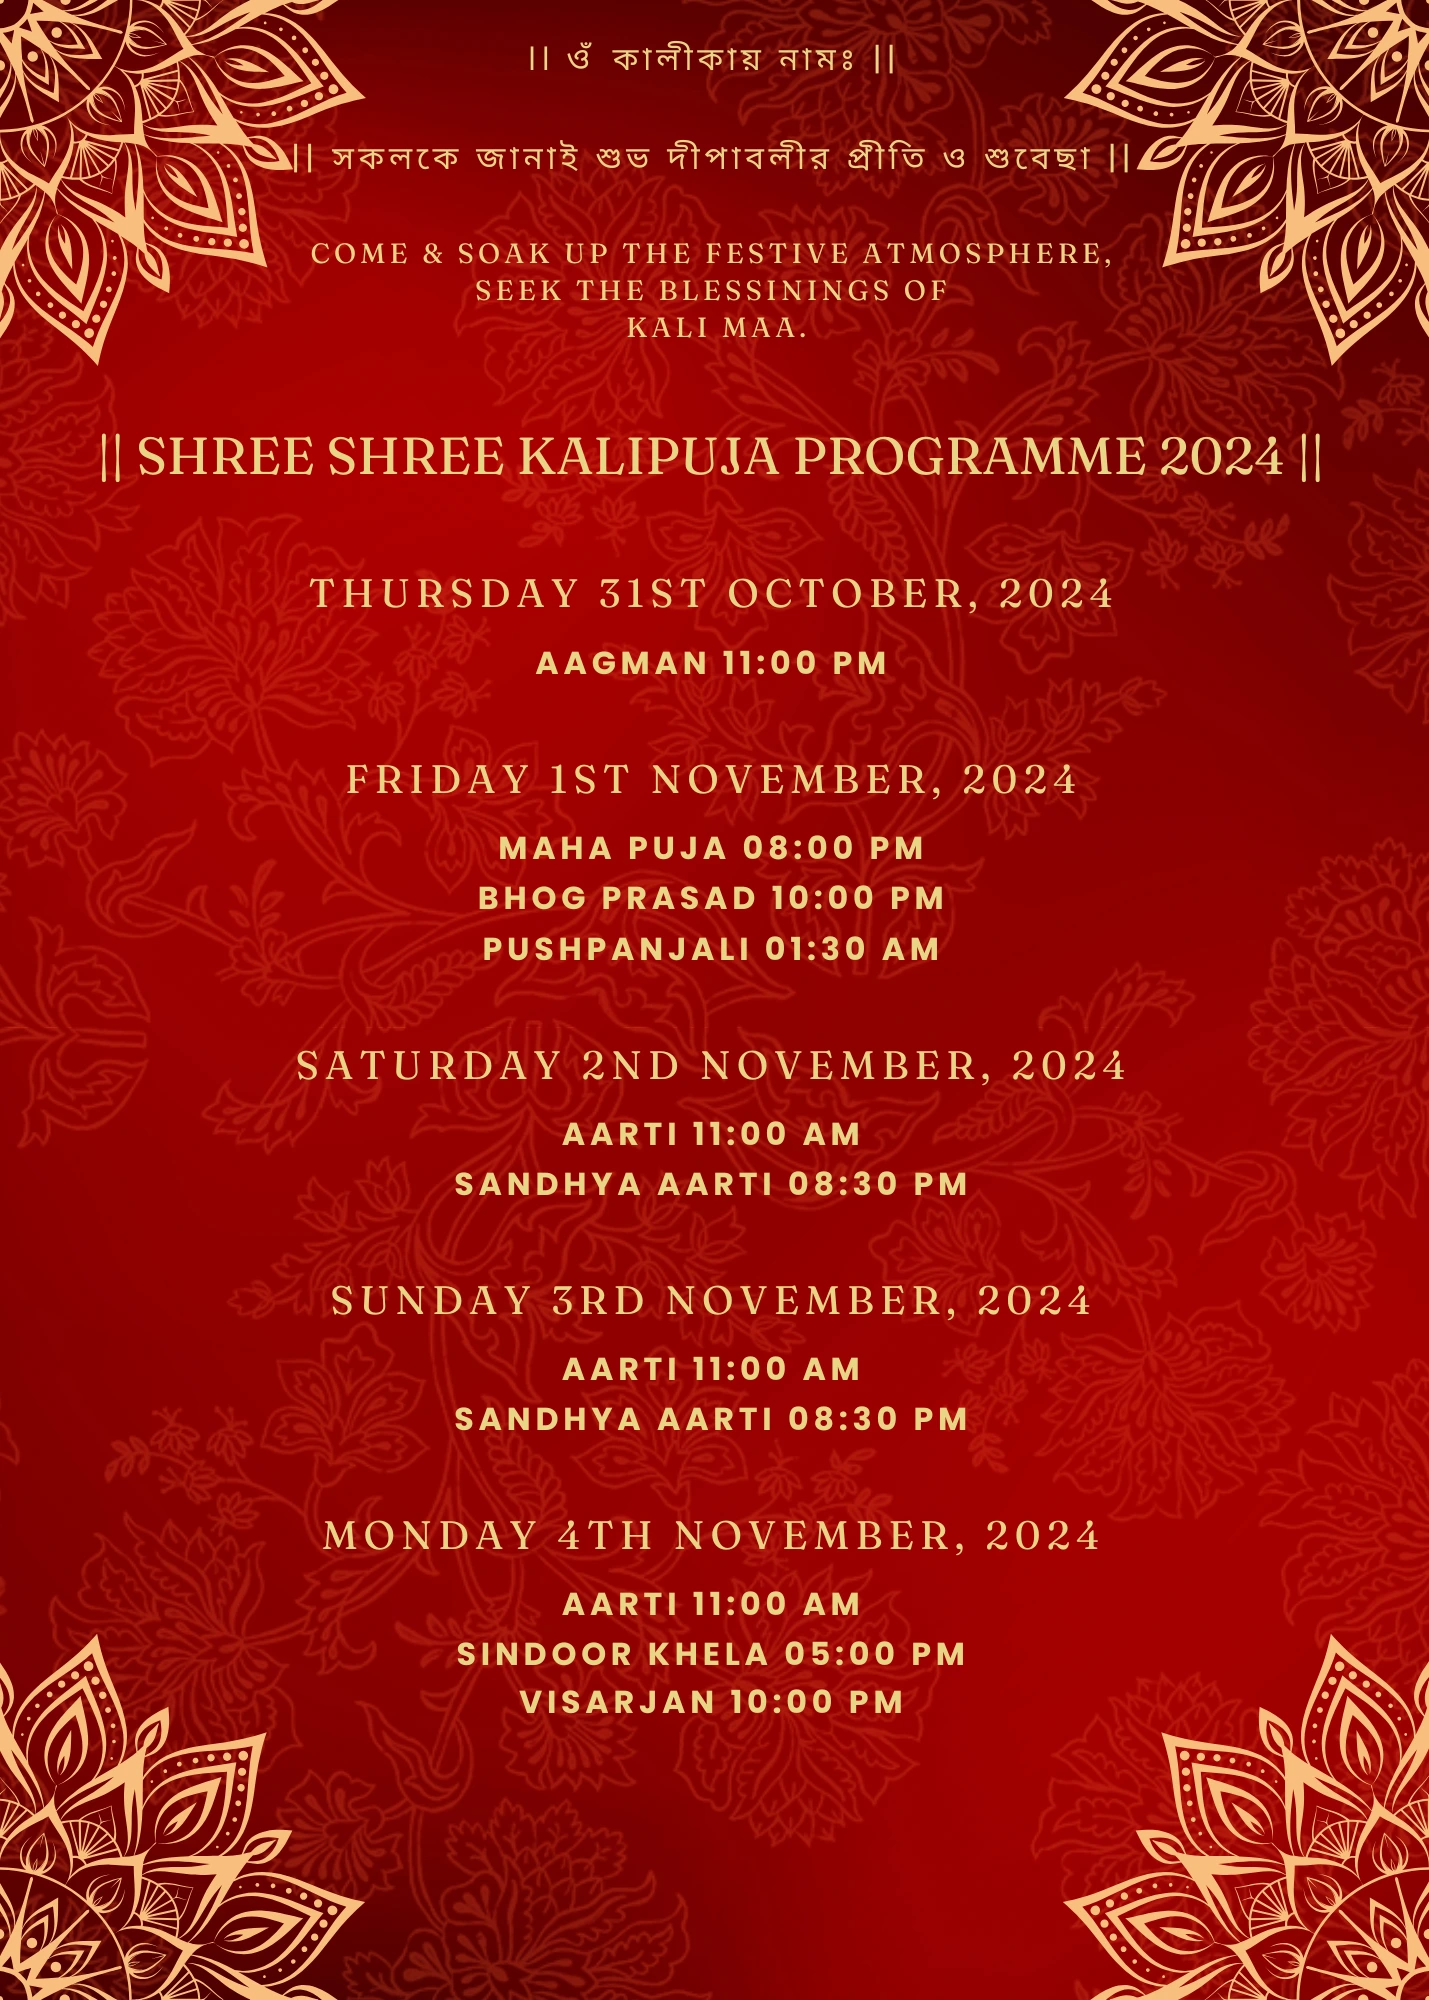
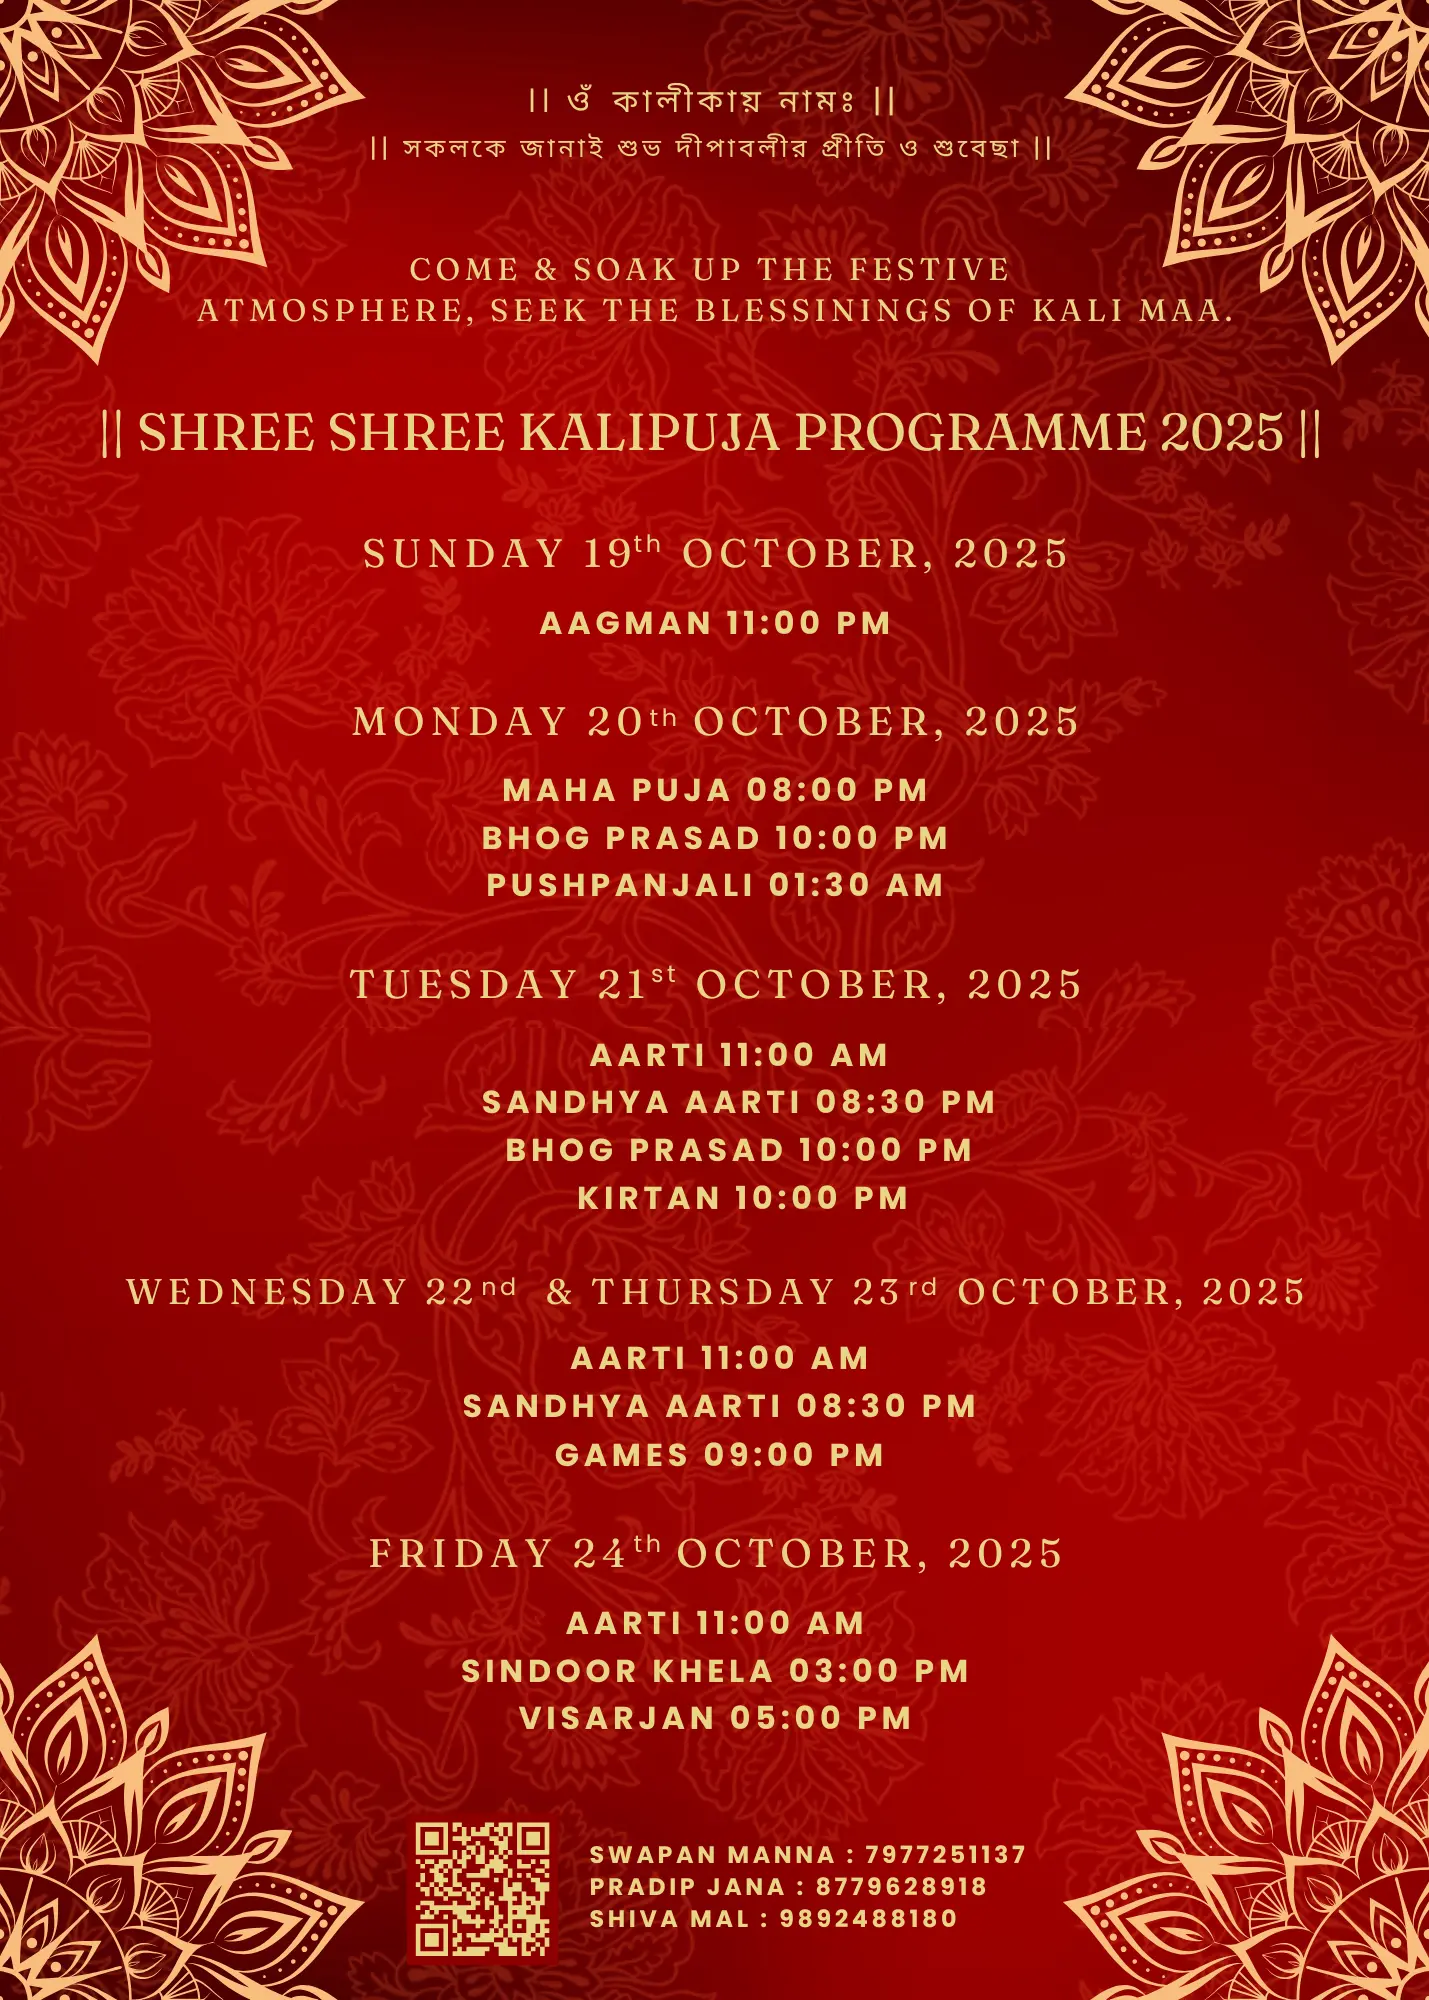
2025 Details updated

diff --git a/index.html b/index.html
@@ -218,9 +218,9 @@
         <section id="Pujo">
           <div class="pujo-holder">
             <div class="heading-holder">
-              <span class="sub-heading">Invitation</span>
+              <span class="sub-heading" data-aos="fade-up">Invitation</span>
               <p class="heading">
-                KaliPuja <span class="highlight lobster">2024</span>
+                KaliPuja <span class="highlight lobster">2025</span>
               </p>
             </div>
 
@@ -259,6 +259,11 @@
             <div class="image">
               <div class="tint"></div>
               <img src="Assets/Images/ComingSoon.webp" alt="Coming Soon" />
+              <p class="year">2025</p>
+            </div>
+            <div class="image">
+              <div class="tint"></div>
+              <img src="Assets/Images/kalipuja2024.jpg" alt="Coming Soon" />
               <p class="year">2024</p>
             </div>
             <div class="image">
@@ -416,7 +421,7 @@
                   />
                   <p>kalipujasion@gmail.com</p>
                 </a>
-                <a href="#" class="link">
+                <!-- <a href="#" class="link">
                   <img
                     src="Assets/icons/twitter.png"
                     alt="socialmediaIcons"
@@ -424,7 +429,7 @@
                     target="_blank"
                   />
                   <p>SarvajanikKaliPujaSion</p>
-                </a>
+                </a> -->
               </div>
             </div>
 
@@ -447,8 +452,8 @@
         <footer id="Footer">
           Copyright &copy; <span id="Date"></span> Sarvajanik Kali Puja Sion.
           All Rights Reserved | Designed and Developed By
-          <a href="https://ramprasadmanna.github.io/">Ramprasad</a> &
-          <a href="">Shruti</a>
+          <a href="https://ramprasadmanna.github.io/">Ramprasad</a> 
+          <!-- & <a href="">Shruti</a> -->
         </footer>
         <!-- Footer Section End -->
       </div>

diff --git a/style.css b/style.css
@@ -225,6 +225,7 @@ nav {
           transform: translate(-50%, -50%);
         }
 
+
         .logoInner {
           -webkit-filter: drop-shadow(var(--logo-dropshadow));
           filter: drop-shadow(var(--logo-dropshadow));
@@ -492,12 +493,13 @@ nav {
         background-image: linear-gradient(rgb(0 0 0/0), rgb(0 0 0/0.5));
         height: 100%;
         width: 100%;
+        /* pointer-events: none; */
       }
 
       & img {
         -webkit-transition: scale 1s ease;
         -o-transition: scale 1s ease;
-        transition: scale 1s ease;
+        transition: scale 0.5s ease;
         cursor: pointer;
         aspect-ratio: 4 / 6;
         object-fit: cover;
